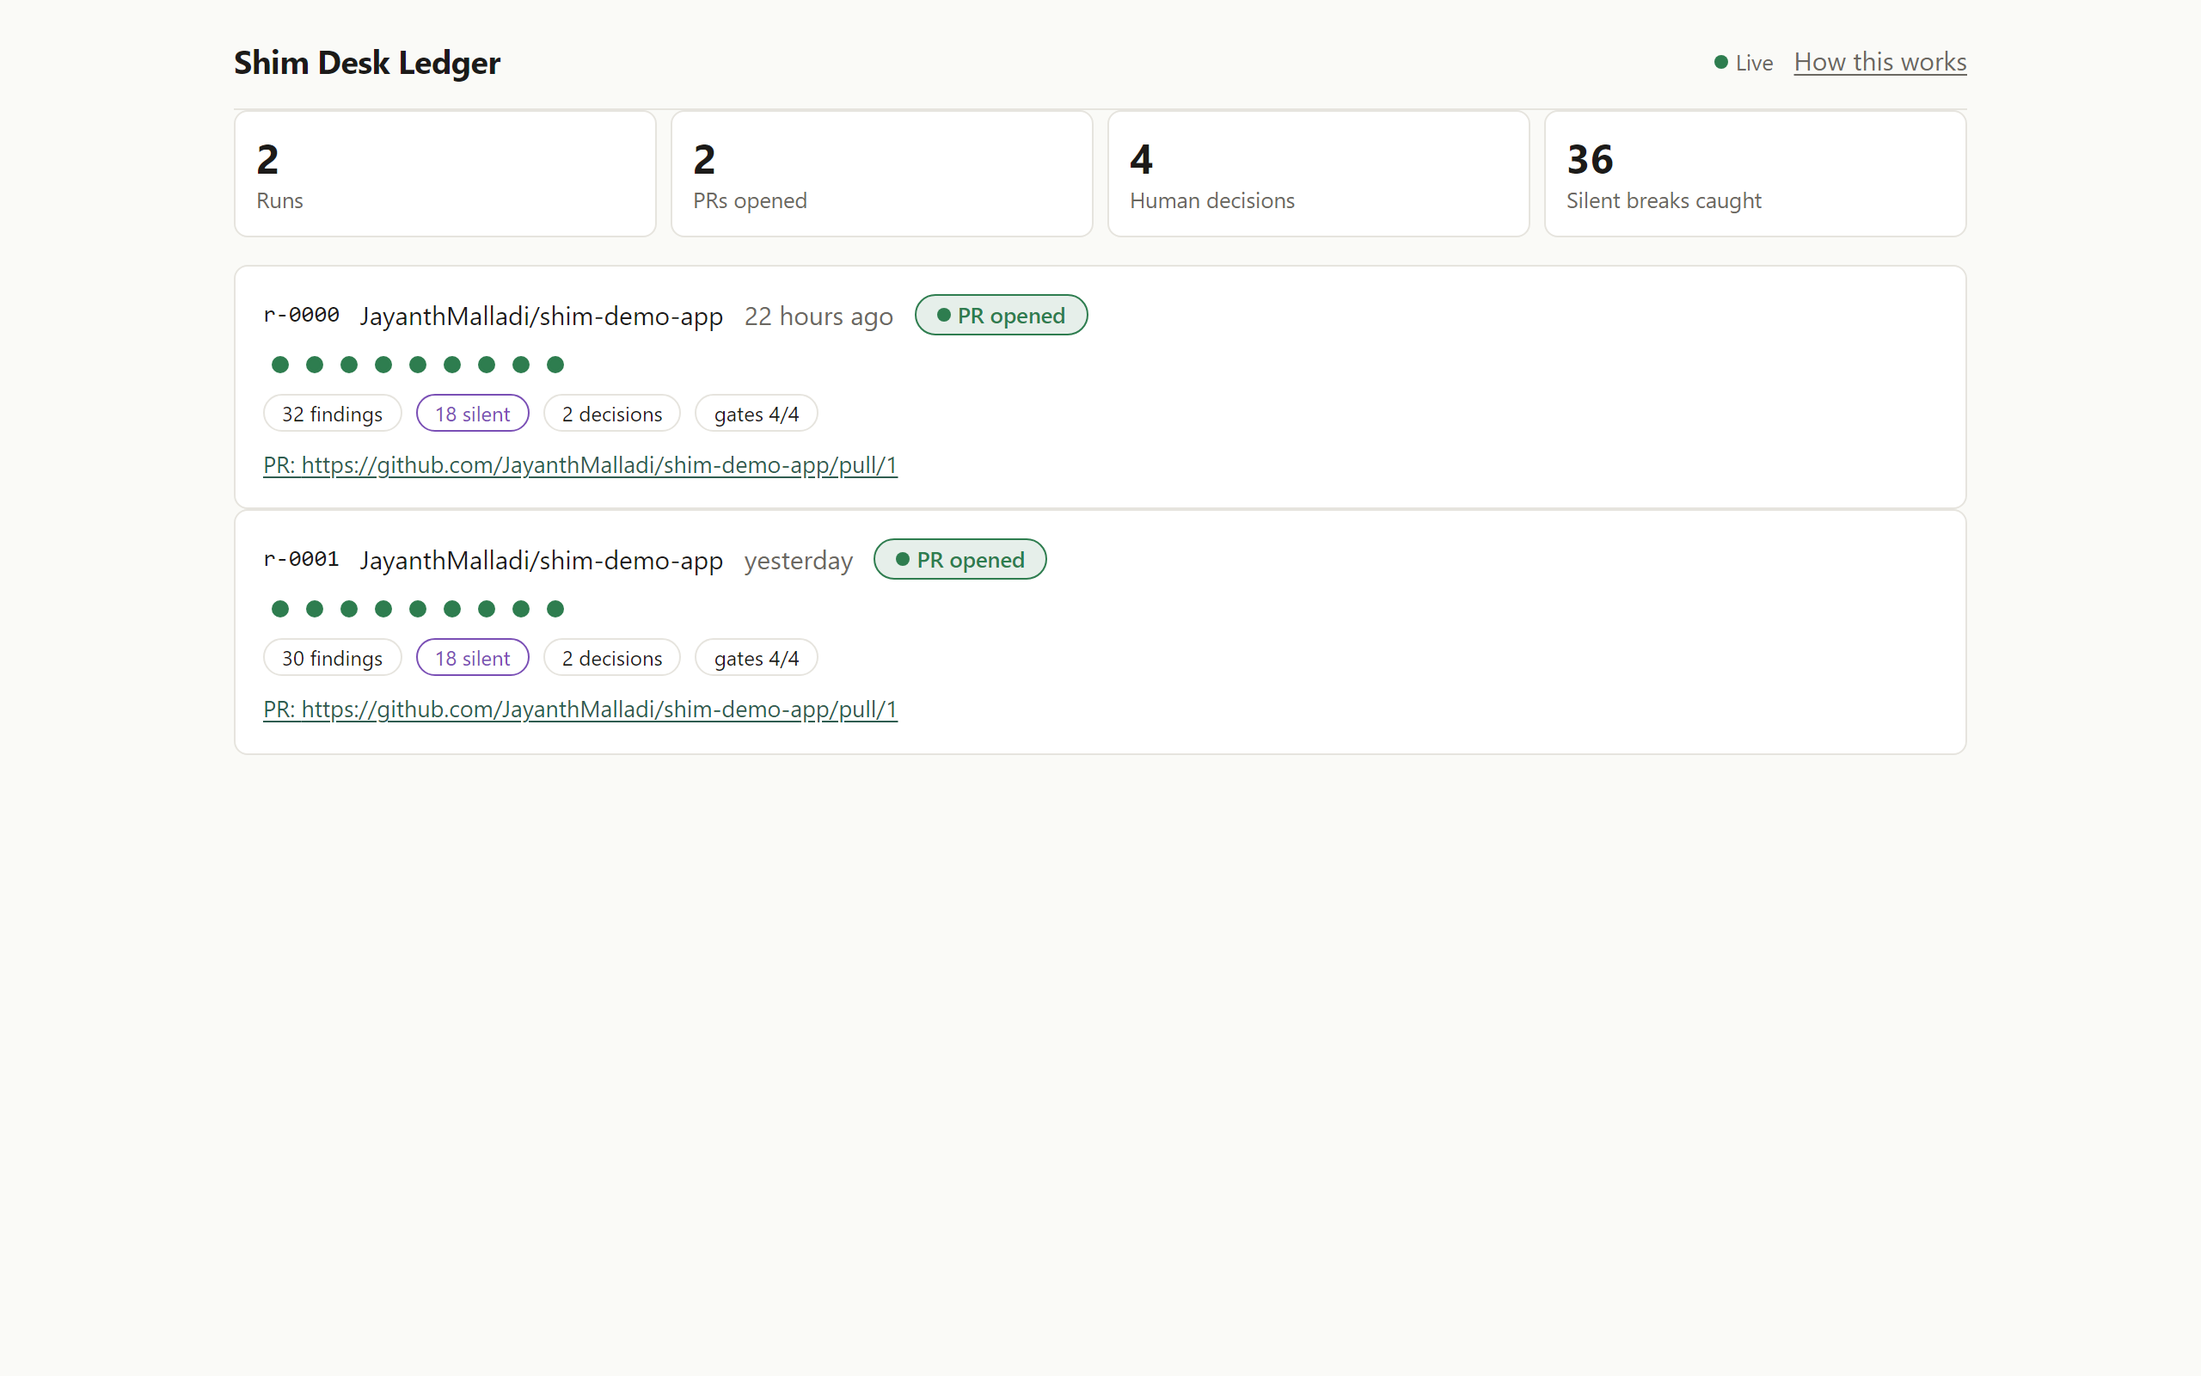
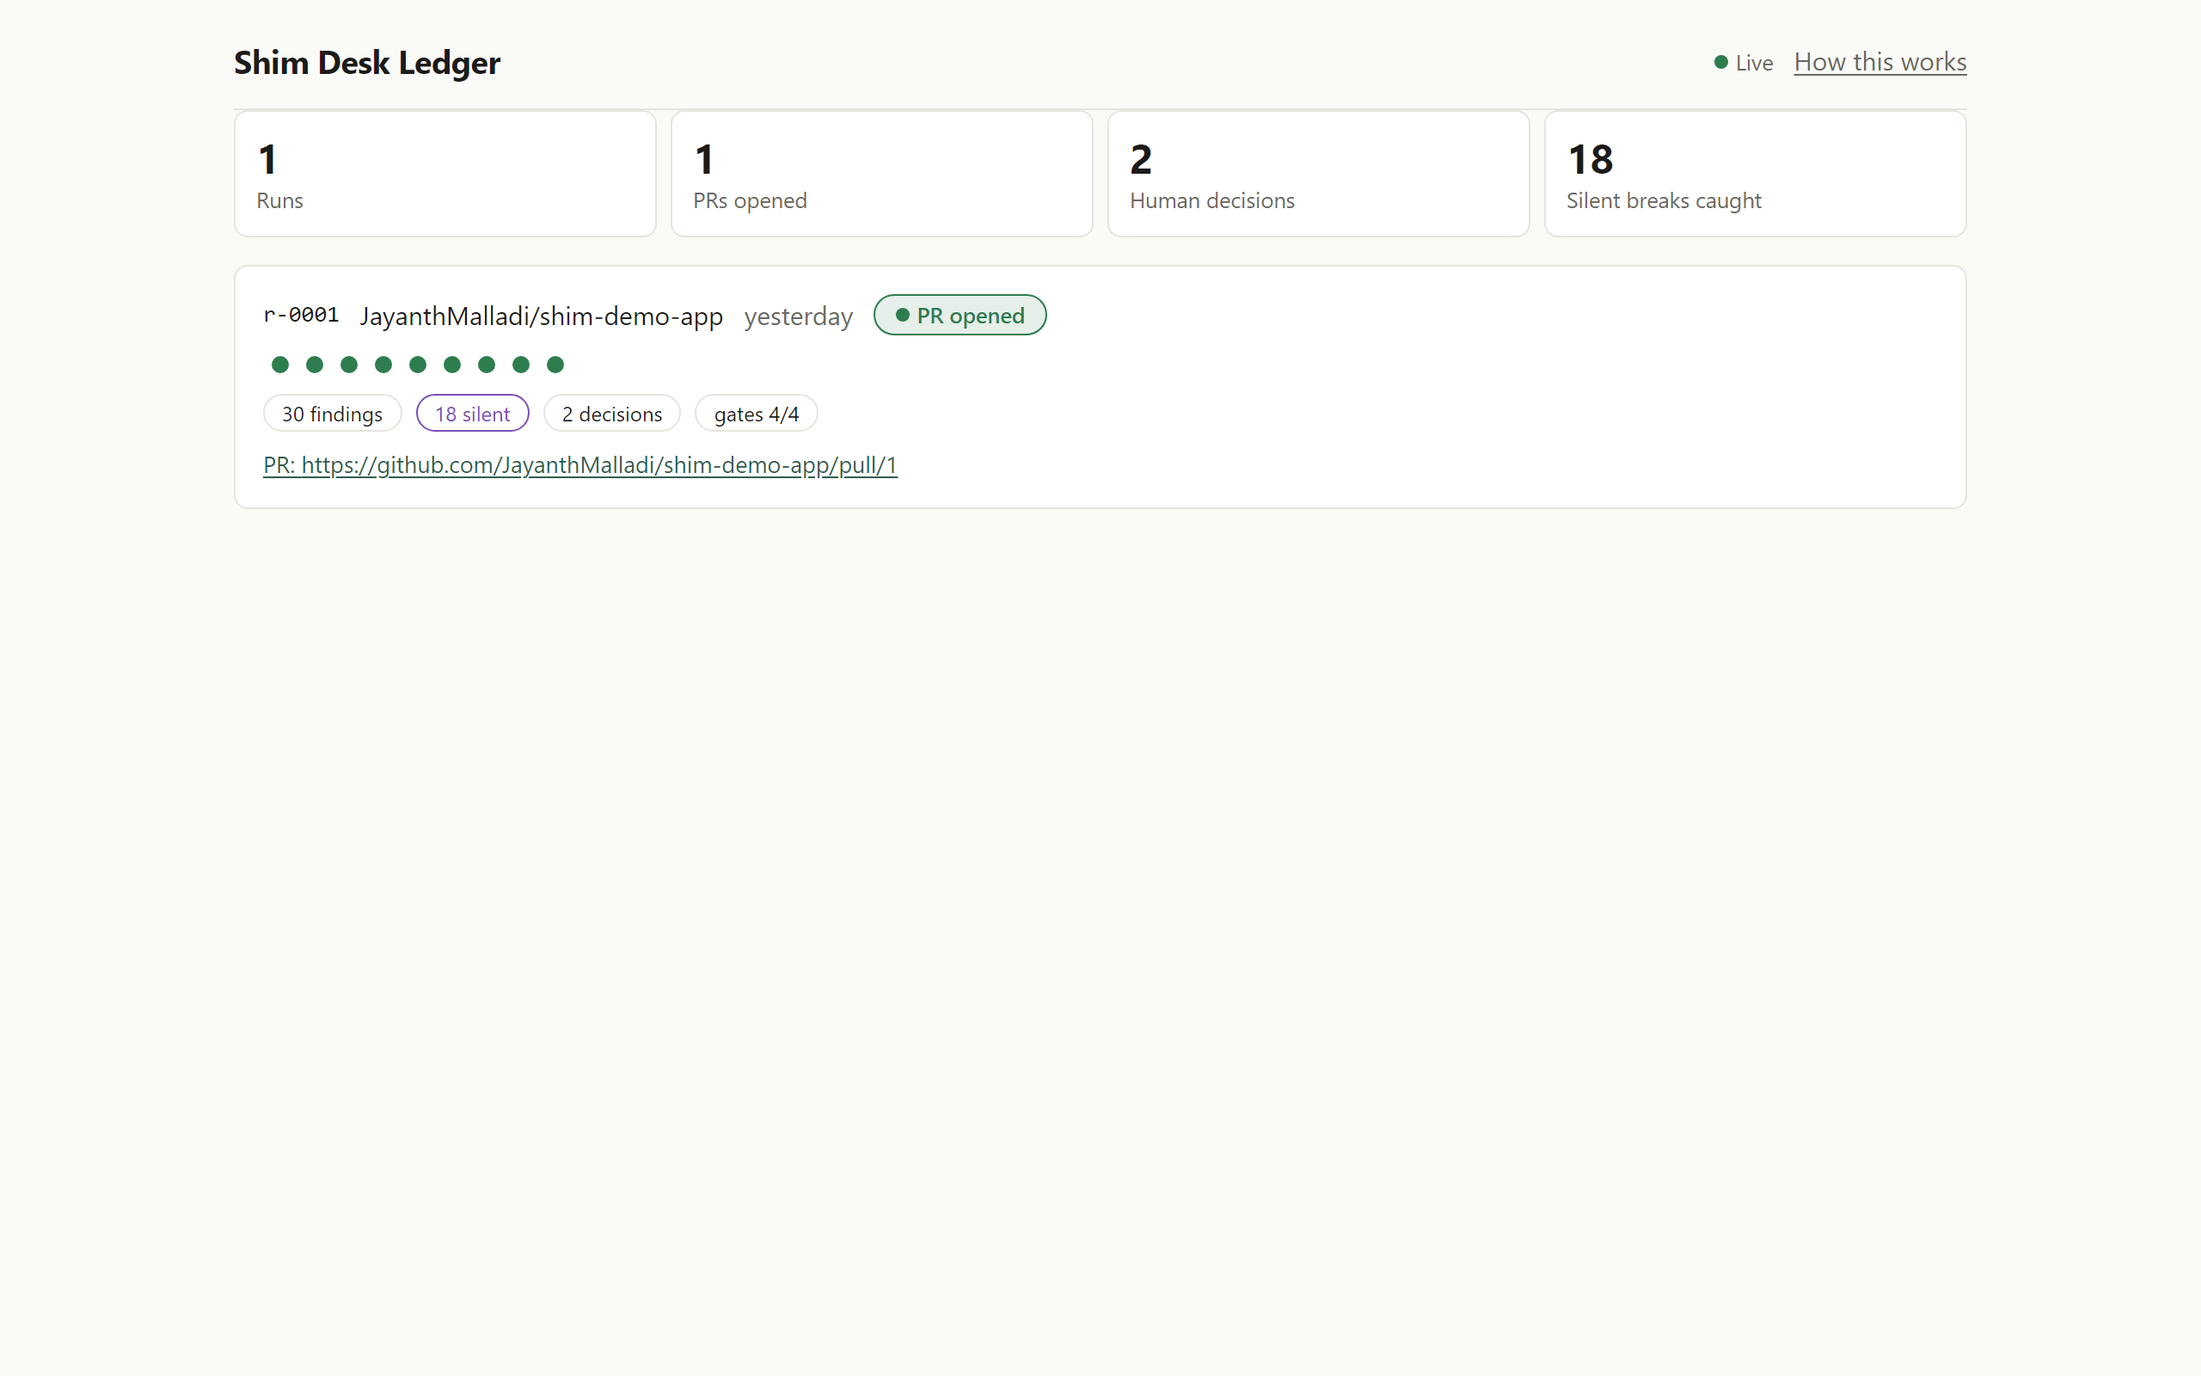
board: show only real runs; tests: pass on a fresh clone
FIX 1: ui/plugins/ledger.ts lists only files matching /^r-\d{4}\.json$/
in both the dev /api/runs route and the build-time copy. The example-*
include and the de-dup-by-runId block (added only for the fixture) are
gone. r-0002 is kept in ledger/ as the record for the live ledger-writer
confirmation (docs/RUN-REPORT-r-0002.md) but stays off the public board
via a RECORD_ONLY set, so a fresh clone shows exactly r-0001: 1 run,
1 PR, 2 decisions, 18 silent. ui/test/e2e.spec.ts now asserts the r-0001
card and a summary strip computed from ledger/r-0001.json (not
hard-coded); the live r-9999 test is kept; screenshots retaken at
deviceScaleFactor 2 with no r-0000 present.

FIX 2: three causes made `npm test` red on a fresh clone. (a) the r-0001
replay test drove --auto-fixed-from with a relative work/ path; the flag
is CWD-relative, so on a fresh clone it ENOENTed. It now copies the
committed test/fixtures/r-0001-report.json (the only field the flag
reads: autoFixed) into the temp work dir and passes an absolute path, so
the test reads nothing from work/. (b) the root test script was bare
`node --test`, which on Windows/Node 22 auto-discovers ui/test/*.ts
(needs ui/node_modules) and whose dir form breaks; it is now
`node --test "test/**/*.test.mjs"` (explicit root-only glob,
cross-platform). (c) ui/playwright.config.ts webServer was
`npm --prefix ui run dev -- …`, which Playwright runs with cwd = ui/ so
--prefix ui resolved to ui/ui/ (ENOENT) and the e2e only "passed" when a
[…]

diff --git a/ui/test/e2e.spec.ts b/ui/test/e2e.spec.ts
@@ -1,8 +1,12 @@
 // WP UI-4 — Playwright e2e for the Ledger Board (02-UI-SPEC §7 UI-4, §8).
 // Runs against the DEV server (ui/playwright.config.ts webServer: `npm --prefix
 // ui run dev -- --port 5173 --strictPort`, baseURL localhost:5173,
-// reuseExistingServer). The committed fixture ledger/example-r-0000.json
-// (runId r-0000, status done, 16 events, PR url) is what the board shows today.
+// reuseExistingServer).
+//
+// Board listing (02 §1, ui/plugins/ledger.ts): only real runs — files named
+// r-NNNN.json. The committed test fixture ledger/example-r-0000.json is NOT
+// listed (ui/test/RunPage.test.tsx imports it directly), so a fresh clone's
+// board shows exactly one card: r-0001.
 //
 // This file lives in ui/test/ next to the vitest suites (format.test.ts,
 // RunPage.test.tsx), so `npm --prefix ui run test` (bare `vitest run`) also
@@ -17,7 +21,7 @@ import fs from 'node:fs';
 import path from 'node:path';
 import { fileURLToPath } from 'node:url';
 import { execSync } from 'node:child_process';
-import type { Browser, BrowserContext } from '@playwright/test';
+import type { Browser, BrowserContext, Page } from '@playwright/test';
 
 // ui/ is a "type": "module" package, so this spec loads as ESM and `__dirname`
 // is not in scope.
@@ -79,24 +83,54 @@ if (IS_VITEST) {
     expect(fs.existsSync(LIVE_FILE)).toBe(false);
   });
 
-  // a. + b. Open `/`, see the fixture run card, click into it, see GatesTable.
-  test('board: fixture run card opens into the run with all-pass gates footer', async ({
+  // Summary-strip tile value (02 §5.1): each tile is a .card holding a large
+  // value div then a .muted label. Read the value from the tile whose label
+  // matches exactly.
+  const stripValue = async (page: Page, label: string): Promise<number> => {
+    const text = await page
+      .locator(`.card:has(> .muted:text-is("${label}")) > div:first-child`)
+      .innerText();
+    return Number(text);
+  };
+
+  // The committed real run the board lists (the only one on a fresh clone).
+  const realRunId = 'r-0001';
+  const realRun = JSON.parse(fs.readFileSync(path.join(LEDGER_DIR, `${realRunId}.json`), 'utf8'));
+
+  // a. + b. Open `/`, see the r-0001 card and the summary strip computed from
+  //    it, click into it, see GatesTable.
+  test('board: r-0001 card with the computed summary strip opens into the run with all-pass gates footer', async ({
     page,
   }) => {
     await page.goto('/');
-    // a. The fixture card: runId r-0000, repo JayanthMalladi/shim-demo-app,
-    //    StatusPill "PR opened" (status done → pill text per 02 §6).
-    const card = page.getByLabel('run r-0000');
-    await expect(card).toHaveText(/r-0000/);
+    // a. The r-0001 card: runId, repo, StatusPill "PR opened" (status done →
+    //    pill text per 02 §6). The example fixture (r-0000) is NOT listed.
+    const card = page.getByLabel('run r-0001');
+    await expect(card).toHaveText(/r-0001/);
     await expect(card).toHaveText(/JayanthMalladi\/shim-demo-app/);
     await expect(card).toHaveText(/PR opened/);
+    await expect(page.getByLabel('run r-0000')).toHaveCount(0, 'fixture r-0000 is not a board run');
+
+    // Summary strip (02 §5.1): expected values computed from ledger/r-0001.json
+    // — one listed run; PRs = done-with-PR; decisions; silent findings.
+    const expected = {
+      runs: 1, // on a fresh clone the board lists exactly the one committed real run (r-0001)
+      prs: realRun.status === 'done' && realRun.pr?.url ? 1 : 0,
+      decisions: realRun.decisions?.length ?? 0,
+      silent: realRun.findings?.bySeverity?.silent ?? 0,
+    };
+    await expect
+      .poll(async () => await stripValue(page, 'Runs')).toBe(expected.runs);
+    expect(await stripValue(page, 'PRs opened')).toBe(expected.prs);
+    expect(await stripValue(page, 'Human decisions')).toBe(expected.decisions);
+    expect(await stripValue(page, 'Silent breaks caught')).toBe(expected.silent);
 
     // b. Click the card's stretched link (an <a> filling the whole card,
-    //    02 §5.1 "the whole card links to #/run/<runId>") → #/run/r-0000.
+    //    02 §5.1 "the whole card links to #/run/<runId>") → #/run/r-0001.
     //    Target the card's own hash link, not the nested PR link, so the click
     //    resolves to a single element.
-    await card.locator('a[href="#/run/r-0000"]').click();
-    await expect(page).toHaveURL(/#\/run\/r-0000/);
+    await card.locator('a[href="#/run/r-0001"]').click();
+    await expect(page).toHaveURL(/#\/run\/r-0001/);
 
     // The GatesTable renders with the all-pass footer (02 §5.2 #5):
     // "Every gate that passed before still passes" (gates.regressions is empty).
@@ -126,8 +160,9 @@ if (IS_VITEST) {
 
   // d. Screenshots (02 §7 UI-4 d, 02 §9 "done means"): full-page, 1280x800
   //    viewport, deviceScaleFactor 2, saved to docs/board-runs.png and
-  //    docs/board-run.png. The runs page shows every committed run (fixture
-  //    r-0000 + real r-0001); the detail shot showcases the REAL run r-0001.
+  //    docs/board-run.png. The runs page shows the committed real run(s)
+  //    (r-0001 on a fresh clone; never the r-0000 fixture); the detail shot
+  //    showcases the REAL run r-0001.
   const makeScreenshotContext = (browser: Browser): Promise<BrowserContext> =>
     browser.newContext({
       viewport: { width: 1280, height: 800 },
@@ -139,14 +174,15 @@ if (IS_VITEST) {
     const page = await ctx.newPage();
     try {
       await page.goto('/');
-      await expect(page.getByLabel('run r-0000')).toBeVisible();
+      await expect(page.getByLabel('run r-0001')).toBeVisible();
+      await expect(page.getByLabel('run r-0000')).toHaveCount(0, 'fixture never appears on the board');
       await page.screenshot({
         path: path.join(REPO_ROOT, 'docs', 'board-runs.png'),
         fullPage: true,
       });
 
-      // Detail shot: showcase the REAL run (r-0001). Its gates are all green
-      // with regressions [], so the all-pass footer renders here too.
+      // Detail shot: the real run (r-0001). Its gates are all green with
+      // regressions [], so the all-pass footer renders here too.
       const runPage = await ctx.newPage();
       await runPage.goto('/#/run/r-0001');
       await expect(runPage.getByText('Every gate that passed before still passes')).toBeVisible();

diff --git a/ui/plugins/ledger.ts b/ui/plugins/ledger.ts
@@ -15,9 +15,8 @@ const ledgerDir: string = (() => {
   return candidates.find((c) => fs.existsSync(c)) ?? candidates[1];
 })();
 
-// One object per file that parses. runId is read from the parsed JSON so the
-// de-dup key is always the run's own id; the fileName fallback covers a file
-// that lacks a runId (it still counts as a distinct entry).
+// One object per file that parses. runId is read from the parsed JSON; the
+// fileName fallback covers a file that lacks a runId.
 type Entry = {
   fileName: string;
   runId: string;
@@ -25,6 +24,11 @@ type Entry = {
   run: unknown;
 };
 
+// Board listing (02 §1): only real runs — files named r-NNNN.json. The
+// committed test fixture example-r-0000.json is deliberately NOT listed; it
+// exists for ui/test/RunPage.test.tsx, which imports it directly. A fresh
+// clone therefore lists exactly r-0001, and runs written later (e.g. the e2e
+// live test's r-9999.json) still appear.
 function listLedgerFiles(): string[] {
   let names: string[];
   try {
@@ -32,15 +36,7 @@ function listLedgerFiles(): string[] {
   } catch {
     return [];
   }
-  return names.filter(
-    (n) =>
-      n.endsWith('.json') &&
-      // The fixture example-r-0000.json does not match the r-* glob
-      // (lead decision), so the plugin globs r-*.json AND example-*.json and
-      // de-duplicates by runId.
-      (n.startsWith('r-') || n.startsWith('example-')) &&
-      n !== 'schema.json',
-  );
+  return names.filter((n) => /^r-\d{4}\.json$/.test(n));
 }
 
 // Read every ledger file on each call — no cache, so dev polling sees live
@@ -62,16 +58,8 @@ function readRuns(): Entry[] {
     const createdAt = String(parsed?.createdAt ?? '');
     out.push({ fileName, runId, createdAt, run: parsed });
   }
-  // De-dup by runId (r-*.json and example-*.json may share one). A real
-  // r-NNNN.json always wins over the example- prefixed fixture: example files
-  // are processed first so a colliding r- file overwrites them.
-  const isExample = (e: Entry) => e.fileName.startsWith('example-');
-  const ordered = [...out].sort((a, b) => Number(isExample(a)) - Number(isExample(b)));
-  const byRunId = new Map<string, Entry>();
-  for (const e of ordered) byRunId.set(e.runId, e);
-  const runs = [...byRunId.values()];
   // createdAt descending; newest first. Missing/invalid dates sort to the end.
-  runs.sort((a, b) => {
+  out.sort((a, b) => {
     const ta = Date.parse(a.createdAt);
     const tb = Date.parse(b.createdAt);
     if (Number.isNaN(ta) && Number.isNaN(tb)) return 0;
@@ -79,7 +67,7 @@ function readRuns(): Entry[] {
     if (Number.isNaN(tb)) return -1;
     return tb - ta;
   });
-  return runs;
+  return out;
 }
 
 function sendJson(res: unknown, status: number, body: unknown): void {

diff --git a/ui/playwright.config.ts b/ui/playwright.config.ts
@@ -32,9 +32,13 @@ export default defineConfig({
     },
   ],
   webServer: {
-    // Pinned port + strictPort; reuseExistingServer: true so an already-running
-    // dev server on 5173 is used instead of spawning a second one.
-    command: 'npm --prefix ui run dev -- --port 5173 --strictPort',
+    // Playwright runs this command with cwd = ui/ (the config's directory), so
+    // it must be the in-dir form `npm run dev`, NOT `npm --prefix ui run dev`
+    // (that resolved to ui/ui/ and ENOENT'd on a fresh clone, which had no
+    // pre-running server to reuse). Pinned port + strictPort;
+    // reuseExistingServer: true so an already-running dev server on 5173 is
+    // used instead of spawning a second one.
+    command: 'npm run dev -- --port 5173 --strictPort',
     url: 'http://localhost:5173',
     reuseExistingServer: true,
     timeout: 120_000,

diff --git a/docs/DECISIONS.md b/docs/DECISIONS.md
@@ -131,3 +131,9 @@ The r-0001 board gap (§5.1 of `docs/BUILD-STATUS.md`): `ledger.mjs` wrote statu
 **Deviations recorded:** (a) the new event kinds map onto the schema's fixed `kind` enum — `--auto-fixed-from` posts a `gate`-kind event ("Shim applied N deterministic fixes") since no `fix`-kind fits the deterministic pass, `--fix` is `fix`, `--review` `review`, `--approval` `approval`, `--pr` `pr`, `--message` `message`; `--review --by` and `--pr --branch` are new optional adders that keep old calls working. (b) a live confirmation run (r-0002) executes the skill's full command sequence in this session — the Switch agents' room-level hand-off still happens only in the room; the run proves the ledger writer, not the room. (c) `ajv`/`ajv-formats` are new root devDependencies (schema validation in the e2e test), keeping "no runtime deps" — they are test-only.
 **Per-user instruction (2026-11-07):** status updates on the live run (r-0002) are logged to the ledger only — not to this decision log.
 **Removed (2026-11-07):** `ledger/r-0002.json` deleted and PR #2 closed. r-0002's six fixes were copied from r-0001 and its two reviewer verdicts were entered by the build session, not produced by the agents in the room, so it must not appear on the board as a real run. The ledger-writer code and tests stay.
+
+## Board lists only real runs (02 §1, 2026-11-07)
+`ui/plugins/ledger.ts` now lists files matching `/^r-\d{4}\.json$/` only, in both the dev `/api/runs` route and the build-time copy, so the committed test fixture `example-r-0000.json` (runId `r-0000`) no longer shows as a real "PR opened" run. The `example-*` include and the de-dup-by-runId block (added only for it) are removed. Since PR #1 deleted `ledger/r-0002.json`, the filter alone yields exactly `r-0001` on a fresh clone (strip 1 run / 1 PR / 2 decisions / 18 silent); runs written later (e.g. the e2e live test's `r-9999`) still appear. `ui/test/e2e.spec.ts` now targets `r-0001` and computes the expected summary strip from `ledger/r-0001.json` (not hard-coded); `docs/board-runs.png` / `board-run.png` retaken at `deviceScaleFactor 2`, no `r-0000` present.
+
+## `npm test` is green on a fresh clone (01 §5.4, 2026-11-07)
+Three causes, three fixes. **(a)** the r-0001 replay test in `test/ledger.test.mjs` drove `--auto-fixed-from` with the relative `work/r-0001/shim/report.json`; that flag is resolved against the CWD, so on a fresh clone (no gitignored `work/`) it ENOENTed. Now a committed fixture `test/fixtures/r-0001-report.json` holds the only field the flag reads (`autoFixed`), copied into the temp work dir, and passed as an **absolute** path — the test reads nothing from `work/`. **(b)** the root `test` script was bare `node --test`, which on Windows/Node 22 auto-discovers `ui/test/*.ts` (needs `ui/node_modules`) and whose dir form breaks — it is now `node --test "test/**/*.test.mjs"` (explicit root glob, cross-platform). **(c)** `ui/playwright.config.ts` webServer was `npm --prefix ui run dev -- …` — Playwright runs it with `cwd = ui/` (the config's dir), so `--prefix ui` resolved to `ui/ui/` → `ENOENT`, and `npm --prefix ui run e2e` only ever "passed" locally because a dev server was already on 5173 (`reuseExistingServer` picked it up). Now the in-dir form `npm run dev -- …`, so the e2e starts its own server on a clean clone. Fresh-clone check: `npm ci && npm test` → 53/53; `npm --prefix ui ci && npm --prefix ui test` → 38/38; `npm --prefix ui run e2e` → 3/3, all with no `work/` present.

diff --git a/README.md b/README.md
@@ -74,7 +74,7 @@ Because this Windows Console build can't run agent sessions locally, the two age
 ## Ledger board
 
 [The board](https://JayanthMalladi.github.io/shim-desk/) · ![runs](docs/board-runs.png) · ![run](docs/board-run.png)
-Read-only over `ledger/*.json`; the static build on GitHub Pages shows the committed runs (`r-0000` fixture + the real `r-0001`). (URL is live once the repo's Pages source is set to GitHub Actions; the workflow is `.github/workflows/pages.yml`.)
+Read-only over `ledger/*.json`; the board lists only real runs (files named `r-NNNN.json`), so a fresh clone shows the single committed run `r-0001`. `example-r-0000.json` is a test fixture (imported directly by `ui/test/RunPage.test.tsx`) and is never listed. (URL is live once the repo's Pages source is set to GitHub Actions; the workflow is `.github/workflows/pages.yml`.)
 
 ## Built during the hackathon
 
